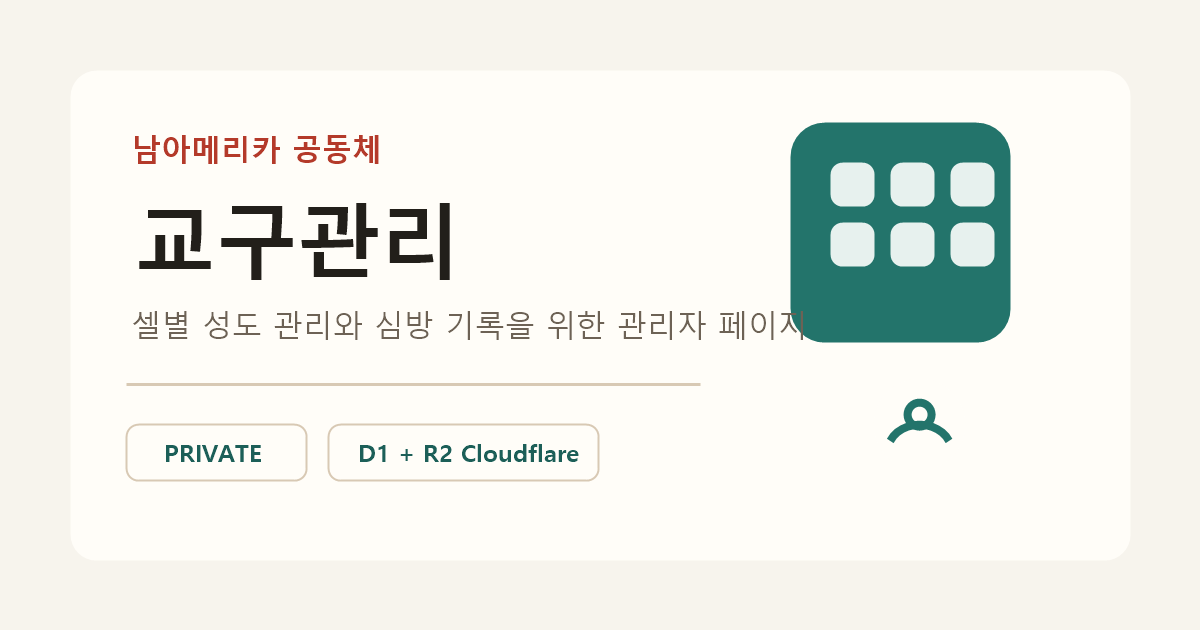
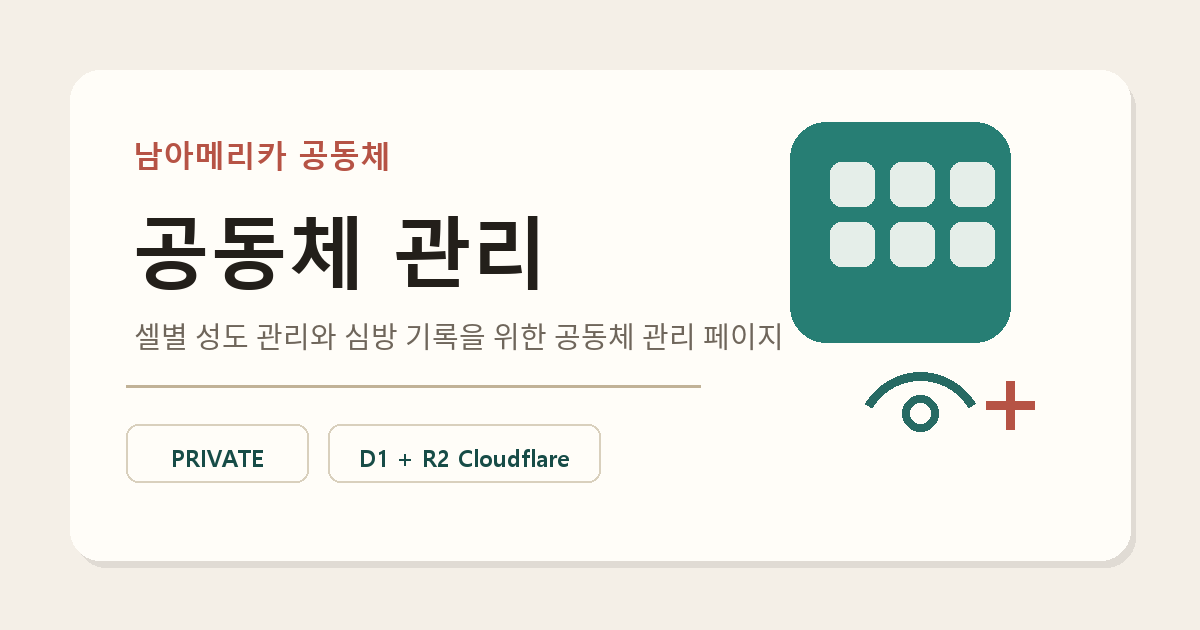
Rename app to community management

diff --git a/public/index.html b/public/index.html
@@ -3,26 +3,26 @@
   <head>
     <meta charset="utf-8">
     <meta name="viewport" content="width=device-width, initial-scale=1">
-    <title>남아메리카 공동체 교구관리</title>
-    <meta name="description" content="셀별 성도 관리와 심방 기록을 위한 관리자 페이지">
+    <title>남아메리카 공동체 관리</title>
+    <meta name="description" content="셀별 성도 관리와 심방 기록을 위한 공동체 관리 페이지">
     <meta property="og:type" content="website">
     <meta property="og:site_name" content="남아메리카 공동체">
-    <meta property="og:title" content="남아메리카 공동체 교구관리">
-    <meta property="og:description" content="셀별 성도 관리와 심방 기록을 위한 관리자 페이지">
+    <meta property="og:title" content="남아메리카 공동체 관리">
+    <meta property="og:description" content="셀별 성도 관리와 심방 기록을 위한 공동체 관리 페이지">
     <meta property="og:url" content="https://seosanch-cell.pages.dev/">
-    <meta property="og:image" content="https://seosanch-cell.pages.dev/share-card.png?v=2">
-    <meta property="og:image:secure_url" content="https://seosanch-cell.pages.dev/share-card.png?v=2">
-    <meta property="og:image:alt" content="남아메리카 공동체 교구관리">
+    <meta property="og:image" content="https://seosanch-cell.pages.dev/share-card.png?v=3">
+    <meta property="og:image:secure_url" content="https://seosanch-cell.pages.dev/share-card.png?v=3">
+    <meta property="og:image:alt" content="남아메리카 공동체 관리">
     <meta property="og:locale" content="ko_KR">
     <meta property="og:image:width" content="1200">
     <meta property="og:image:height" content="630">
     <meta name="twitter:card" content="summary_large_image">
-    <meta name="twitter:title" content="남아메리카 공동체 교구관리">
-    <meta name="twitter:description" content="셀별 성도 관리와 심방 기록을 위한 관리자 페이지">
-    <meta name="twitter:image" content="https://seosanch-cell.pages.dev/share-card.png?v=2">
-    <link rel="icon" href="/favicon.svg" type="image/svg+xml">
-    <link rel="icon" href="/favicon.png" type="image/png">
-    <link rel="apple-touch-icon" href="/apple-touch-icon.png">
+    <meta name="twitter:title" content="남아메리카 공동체 관리">
+    <meta name="twitter:description" content="셀별 성도 관리와 심방 기록을 위한 공동체 관리 페이지">
+    <meta name="twitter:image" content="https://seosanch-cell.pages.dev/share-card.png?v=3">
+    <link rel="icon" href="/favicon.svg?v=2" type="image/svg+xml">
+    <link rel="icon" href="/favicon.png?v=2" type="image/png">
+    <link rel="apple-touch-icon" href="/apple-touch-icon.png?v=2">
     <link rel="stylesheet" href="./styles.css?v=member-input-format-2">
   </head>
   <body>
@@ -30,7 +30,7 @@
       <header class="topbar">
         <div>
           <p class="eyebrow" id="communityTitleText">남아메리카 공동체</p>
-          <h1>교구관리</h1>
+          <h1>공동체 관리</h1>
         </div>
         <div class="top-actions">
           <label class="search-box">

diff --git a/functions/_middleware.js b/functions/_middleware.js
@@ -13,10 +13,10 @@ const PUBLIC_API_PATHS = new Set([
   "/api/webhook/call-note"
 ]);
 const SITE_URL = "https://seosanch-cell.pages.dev/";
-const META_TITLE = "\uB0A8\uC544\uBA54\uB9AC\uCE74 \uACF5\uB3D9\uCCB4 \uAD50\uAD6C\uAD00\uB9AC";
+const META_TITLE = "\uB0A8\uC544\uBA54\uB9AC\uCE74 \uACF5\uB3D9\uCCB4 \uAD00\uB9AC";
 const META_SITE_NAME = "\uB0A8\uC544\uBA54\uB9AC\uCE74 \uACF5\uB3D9\uCCB4";
-const META_DESCRIPTION = "\uC140\uBCC4 \uC131\uB3C4 \uAD00\uB9AC\uC640 \uC2EC\uBC29 \uAE30\uB85D\uC744 \uC704\uD55C \uAD00\uB9AC\uC790 \uD398\uC774\uC9C0";
-const META_IMAGE = SITE_URL + "share-card.png?v=2";
+const META_DESCRIPTION = "\uC140\uBCC4 \uC131\uB3C4 \uAD00\uB9AC\uC640 \uC2EC\uBC29 \uAE30\uB85D\uC744 \uC704\uD55C \uACF5\uB3D9\uCCB4 \uAD00\uB9AC \uD398\uC774\uC9C0";
+const META_IMAGE = SITE_URL + "share-card.png?v=3";
 const LOGIN_NOT_CONFIGURED = "\uB85C\uADF8\uC778 \uC124\uC815\uC774 \uC544\uC9C1 \uBC18\uC601\uB418\uC9C0 \uC54A\uC558\uC2B5\uB2C8\uB2E4. \uC7A0\uC2DC \uD6C4 \uB2E4\uC2DC \uC2DC\uB3C4\uD574\uC8FC\uC138\uC694.";
 const INVALID_PASSWORD = "\uBE44\uBC00\uBC88\uD638\uAC00 \uB9DE\uC9C0 \uC54A\uC2B5\uB2C8\uB2E4.";
 
@@ -272,9 +272,9 @@ function metaTags() {
     <meta name="twitter:title" content="${META_TITLE}">
     <meta name="twitter:description" content="${META_DESCRIPTION}">
     <meta name="twitter:image" content="${META_IMAGE}">
-    <link rel="icon" href="/favicon.svg" type="image/svg+xml">
-    <link rel="icon" href="/favicon.png" type="image/png">
-    <link rel="apple-touch-icon" href="/apple-touch-icon.png">`;
+    <link rel="icon" href="/favicon.svg?v=2" type="image/svg+xml">
+    <link rel="icon" href="/favicon.png?v=2" type="image/png">
+    <link rel="apple-touch-icon" href="/apple-touch-icon.png?v=2">`;
 }
 
 function redirect(location, headers = {}) {

diff --git a/public/app.js b/public/app.js
@@ -470,7 +470,7 @@ function renderMembers() {
 function renderCommunityTitle() {
   const title = cleanTitle(state.settings?.communityTitle);
   if (el.communityTitleText) el.communityTitleText.textContent = title;
-  document.title = `${title} 교구관리`;
+  document.title = `${title} 관리`;
 }
 
 function memberGridHtml(members, isSearching) {